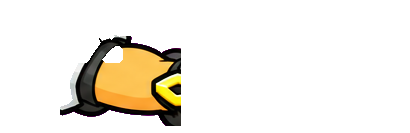
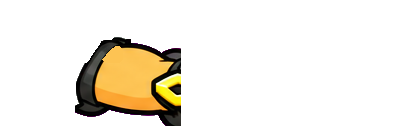
11 네온 알론소 내려찍기 v5.3 (DHL 21:59): 같은 길이 팔 — 엔진 opt-in armIK(길이 고정 두 관절 IK), 손잡이를 몸 쪽으로, 윗팔 위 끝 정리
Claude-Session: https://claude.ai/code/session_011WxNHak8EsK79yqEoeePC7

Changed region(s): [[0.1463, 0.5414, 0.2049, 0.8722], [0.2341, 0.3308, 0.322, 0.4812], [0.2341, 0.2707, 0.322, 0.3008]]

diff --git a/assets/rig/alonso-neon/rig.def.js b/assets/rig/alonso-neon/rig.def.js
@@ -1,3 +1,3 @@
 // 자동 생성: rig.json을 JS로 감싼 것. 원본은 같은 폴더의 rig.json (source/build_neon.py)
 window.MR_RIG_DEFS=window.MR_RIG_DEFS||{};
-window.MR_RIG_DEFS['alonso-neon']={"name": "alonso-neon", "version": "48fab097", "units": "rig px (원화 512 ×2)", "refOrigin": [416.0, 972.0], "refScale": 1.0, "refLift": 0, "parts": {"head": {"src": "parts/head.png", "pivot": [146.0, 249.0], "scale": 2.0}, "torso": {"src": "parts/torso.png", "pivot": [66.0, 102.0], "scale": 2.0}, "torsoS": {"src": "parts/torsoS.png", "pivot": [66.0, 107.0], "scale": 2.0}, "hips": {"src": "parts/hips.png", "pivot": [34.0, 1.0], "scale": 2.0}, "pauldron": {"src": "parts/pauldron.png", "pivot": [45.0, 44.0], "scale": 2.0}, "pauldronF": {"src": "parts/pauldronF.png", "pivot": [26.0, 33.0], "scale": 2.0}, "armU": {"src": "parts/armU.png", "pivot": [7.0, 4.0], "scale": 2.0, "elbow": [23.0, 30.0]}, "armL": {"src": "parts/armL.png", "pivot": [13.0, 17.0], "scale": 2.0, "elbow": [13.0, 17.0], "grip": [99.7, 47.5], "wrist": [99.7, 47.5], "shaftDir": [0.6051086267486272, -0.7961429204824914]}, "foreF": {"src": "parts/foreF.png", "pivot": [3.0, 28.0], "scale": 2.0, "elbow": [3.0, 28.0], "grip": [39.8, 28.0], "wrist": [39.8, 28.0], "shaftDir": [0.6051086267486272, -0.7961429204824914]}, "armF": {"src": "parts/armF.png", "pivot": [36, 25], "scale": 0.7063, "elbow": [38, 145]}, "weapon": {"src": "parts/weapon.png", "pivot": [100, 396.4641362222595], "scale": 2.0, "tip": [100, 16], "tips": [[92, 10], [108, 10]], "guard": [100, 370], "pommel": [100, 463]}, "face_effort": {"src": "parts/face_effort.png", "pivot": [146.0, 249.0], "scale": 2.0}, "face_shout": {"src": "parts/face_shout.png", "pivot": [146.0, 249.0], "scale": 2.0}, "face_focus": {"src": "parts/face_focus.png", "pivot": [146.0, 249.0], "scale": 2.0}, "face_happy": {"src": "parts/face_happy.png", "pivot": [146.0, 249.0], "scale": 2.0}, "face_surprised": {"src": "parts/face_surprised.png", "pivot": [146.0, 249.0], "scale": 2.0}, "face_grimace": {"src": "parts/face_grimace.png", "pivot": [146.0, 249.0], "scale": 2.0}, "face_closed": {"src": "parts/face_closed.png", "pivot": [146.0, 249.0], "scale": 2.0}, "face_half": {"src": "parts/face_half.png", "pivot": [146.0, 249.0], "scale": 2.0}, "thighN": {"src": "parts/thighN.png", "pivot": [0, 0], "scale": 1.0}, "thighF": {"src": "parts/thighF.png", "pivot": [0, 0], "scale": 1.0}, "shinN": {"src": "parts/shinN.png", "pivot": [0, 0], "scale": 1.0}, "shinF": {"src": "parts/shinF.png", "pivot": [0, 0], "scale": 1.0}, "bootN": {"src": "parts/bootN.png", "pivot": [52.0, 2.0], "scale": 2.0}, "bootF": {"src": "parts/bootF.png", "pivot": [20.0, 9.0], "scale": 2.0}, "rthighN": {"src": "parts/rthighN.png", "pivot": [0, 0], "scale": 1.0}, "rthighF": {"src": "parts/rthighF.png", "pivot": [0, 0], "scale": 1.0}, "rshinN": {"src": "parts/rshinN.png", "pivot": [0, 0], "scale": 1.0}, "rshinF": {"src": "parts/rshinF.png", "pivot": [0, 0], "scale": 1.0}, "rkneeN": {"src": "parts/rkneeN.png", "pivot": [49.5, 50.5], "scale": 0.8}, "rkneeF": {"src": "parts/rkneeF.png", "pivot": [49.5, 50.5], "scale": 0.8}, "rboot": {"src": "parts/rboot.png", "pivot": [46.0, 30.0], "scale": 1.12}, "fST2": {"src": "parts/fST2.png", "pivot": [106.4, 114.2], "elbow": [106.4, 114.2], "grip": [342.2, 216.7], "wrist": [342.2, 216.7], "shaftDir": [1.0, 0.0], "scale": 0.575}, "armFst": {"src": "parts/armFst.png", "pivot": [36, 25], "scale": 0.812245, "elbow": [38, 145]}, "weaponA": {"src": "parts/weaponA.png", "pivot": [100, 396.4641362222595], "scale": 2.0, "tip": [100, 16], "tips": [[92, 10], [108, 10]], "guard": [100, 370], "pommel": [100, 463]}, "torsoOH": {"src": "parts/torsoOH.png", "pivot": [165.24, 215.85], "scale": 1.07697}, "gN_OH": {"src": "parts/gN_OH.png", "pivot": [90, 272], "elbow": [90, 272], "grip": [155, 50], "wrist": [155, 50], "shaftDir": [-0.60316, 0.79762], "scale": 0.85627}, "gF_OH": {"src": "parts/gF_OH.png", "pivot": [150, 240], "elbow": [150, 240], "grip": [110, 55], "wrist": [110, 55], "shaftDir": [-0.90107, 0.43367], "scale": 0.85627}, "uN_OH": {"src": "parts/uN_OH.png", "pivot": [110.0, 229.0], "elbow": [33.0, 29.0], "scale": 0.86157}, "farArmOH": {"src": "parts/farArmOH.png", "pivot": [43, 318], "scale": 0.85627}, "gN_ST": {"src": "parts/gN_ST.png", "pivot": [168, 82], "elbow": [168, 82], "grip": [340, 78], "wrist": [340, 78], "shaftDir": [1, 0], "scale": 0.9}, "gF_ST": {"src": "parts/gF_ST.png", "pivot": [67, 100], "elbow": [67, 100], "grip": [67, 50], "wrist": [67, 50], "shaftDir": [1, 0], "scale": 0.9}, "uN_ST": {"src": "parts/uN_ST.png", "pivot": [70, 80], "elbow": [168, 82], "scale": 0.9}}, "bones": [{"name": "root", "parent": null, "pos": [0, 0]}, {"name": "hip", "parent": "root", "pos": [-32.0, -176.0]}, {"name": "hips", "parent": "hip", "pos": [0.0, 0.0], "part": "hips"}, {"name": "torso", "parent": "hip", "pos": [0.0, 0.0], "part": "torso"}, {"name": "torsoS", "parent": "torso", "pos": [0, 0], "part": "torsoS"}, {"name": "head", "parent": "torso", "pos": [26.0, -172.0], "part": "head"}, {"name": "armF", "parent": "torso", "pos": [110.0, -124.0], "rot": 0.3533, "part": "armF"}, {"name": "foreF", "parent": "armF", "pos": [1.4, 84.7], "rot": -0.3533, "part": "foreF"}, {"name": "fistF", "parent": "foreF", "pos": [73.7, -0.1]}, {"name": "weapon", "parent": "fistF", "pos": [0, 0], "rot": 0.6499, "part": "weapon"}, {"name": "armU", "parent": "torso", "pos": [-84.0, -112.0], "part": "armU"}, {"name": "armL", "parent": "armU", "pos": [32.0, 52.0], "part": "armL"}, {"name": "fistN", "parent": "armL", "pos": [173.3, 61.1]}, {"name": "pauldron", "parent": "torso", "pos": [-84.0, -112.0], "part": "pauldron"}, {"name": "pauldronF", "parent": "torso", "pos": [110.0, -124.0], "part": "pauldronF"}, {"name": "cape", "parent": "torso", "pos": [0, -200]}, {"name": "scarf", "parent": "torso", "pos": [0, -200]}, {"name": "pouch", "parent": "torso", "pos": [0, -200]}, {"name": "skirt", "parent": "torso", "pos": [0, -200]}, {"name": "skirtB", "parent": "torso", "pos": [0, -200]}, {"name": "weaponA", "parent": "weapon", "pos": [0, 0], "part": "weaponA"}, {"name": "torsoOH", "parent": "torso", "pos": [0, 0], "rot": -0.03748, "part": "torsoOH"}, {"name": "farArmOH", "parent": "torso", "pos": [115.15, -170.13], "rot": -0.29928, "part": "farArmOH"}], "legs": {"hip": [0, 10], "thigh": 108.0, "shin": 78.0, "thighImg": {"part": "rthighF", "a": [34.2, 21.6], "b": [39.7, 133.9], "w": 1.197}, "shinImg": {"part": "rshinF", "a": [28.5, 22.3], "b": [46.0, 131.1], "w": 1.625}, "thighFirst": false, "boot": {"part": "rboot", "sole": [[-46.0, 49.0], [84.0, 49.0], [-34.0, 56.0], [84.0, 56.0], [26.0, 63.0], [52.0, 63.0]], "ankleRange": [-0.45, 0.75]}, "near": {"x": -96.0, "hipX": -40.0, "runX": -10, "shade": 0, "kneeOut": 1, "thigh": 65.1, "shin": 57.3, "thighImg": {"part": "rthighN", "a": [47.1, 21.8], "b": [48.1, 129.7], "w": 1.149}, "shinImg": {"part": "rshinN", "a": [34.2, 21.6], "b": [24.7, 127.2], "w": 1.563}, "kneeImg": {"part": "rkneeN", "mix": 0.5}, "stand": {"fade": [0.05, 0.1], "boot": {"part": "bootN", "sole": [[-46.0, 28.0], [3.0, 28.0], [-35.0, 32.0], [-16.0, 32.0]]}, "thighImg": {"part": "thighN", "a": [63.0, 8.0], "b": [41.0, 32.0], "w": 1.0}, "shinImg": {"part": "shinN", "a": [35.0, -12.0], "b": [29.0, 16.0], "w": 1.0}, "kneeImg": null}}, "far": {"x": 158.0, "hipX": 44.0, "runX": 10, "shade": 0, "thigh": 118.2, "shin": 72.2, "thighImg": {"part": "rthighF", "a": [34.2, 21.6], "b": [39.7, 133.9], "w": 1.197}, "shinImg": {"part": "rshinF", "a": [28.5, 22.3], "b": [46.0, 131.1], "w": 1.625}, "kneeImg": {"part": "rkneeF", "mix": 0.5}, "stand": {"fade": [0.05, 0.1], "boot": {"part": "bootF", "sole": [[-1.0, 18.0], [55.0, 18.0], [26.0, 22.0], [41.0, 22.0]]}, "thighImg": {"part": "thighF", "a": [27.0, 7.0], "b": [81.0, 31.0], "w": 1.0}, "shinImg": {"part": "shinF", "a": [11.0, -11.0], "b": [14.0, 25.0], "w": 1.0}, "kneeImg": null}}}, "draw": ["legFar", "legNear", "hips", "armF", "torsoS", "torso", "pauldronF", "head", "weapon", "weaponA", "foreF", "armU", "pauldron", "armL"], "drawA": ["legFar", "legNear", "hips", "armF", "torsoS", "torso", "pauldronF", "head", "weapon", "weaponA", "foreF", "armU", "pauldron", "armL"], "hidden": ["torsoS", "weaponA"], "faces": {"effort": "face_effort", "shout": "face_shout", "focus": "face_focus", "happy": "face_happy", "surprised": "face_surprised", "grimace": "face_grimace"}, "blinkFaces": {"half": "face_half", "closed": "face_closed"}, "metrics": {"bodyHeight": 774, "note": "rig units; 머리카락 가운데(y95)~발바닥(482) ×2, 무기 제외"}, "armPhase": 0.5, "gait": {"heelKick": 0.5, "kneeLift": 0.35, "strideBase": 80, "strideK": 0.2, "swingReach": -0.05, "swingAng": 0.15, "landAng": 0, "hipBase": -44, "bob": 10, "lean": 0.1, "headRun": 0.04}, "carrySwing": 0.25, "wristRange": 0.2, "swordGrip": {"tipDepth": 6, "near": {"upper": "armF", "carry": "foreF"}, "far": {"upper": "armU", "pieces": ["armL"], "sPref": -56.8}, "guard": {"gx": 155.7, "gy": -44.1, "sa": -0.9209, "sN": 0, "sF": -56.8, "nPiece": "foreF", "fPiece": "armL", "nUpper": "armF", "fUpper": "armU", "order": "drawA", "frame": "torso"}, "shoulderN": [36, 6], "shoulderF": [-15, -5], "stretchMax": 1.6, "shoulderPush": 0, "pauldronFollow": 1}, "ui": {"attack": "smash", "touch": "hop"}, "gameRef": {"refOrigin": [208.0, 486.0], "refScale": 2.0, "refLift": 0, "note": "게임 그림 char_0011.png(512) = 원화"}, "note": "11 네온 알론소 (2026-10-18, v1 대기·달리기). 두 손으로 칼을 몸 앞에 쥠(swordGrip.guard), 손·팔뚝·머리·어깨갑은 원화를 그대로 오려 씀.", "drawOH": ["legFar", "legNear", "hips", "torsoS", "torso", "pauldronF", "head", "weapon", "weaponA", "armF", "armU", "foreF", "armL", "pauldron"], "drawSW": ["legFar", "legNear", "hips", "armF", "foreF", "armU", "armL", "torsoS", "torso", "pauldronF", "head", "weapon", "weaponA", "pauldron"], "drawST": ["legFar", "legNear", "hips", "torsoS", "torso", "armF", "pauldronF", "head", "weapon", "weaponA", "foreF", "armU", "pauldron", "armL"], "actions": {"smash": {"dur": 0.9, "hitAt": 0.43, "hitStop": 0.07, "cancelAt": 0.64, "legRun": [[0, 0], [0.1, 0, "lin"], [0.1001, 1], [0.64, 1, "io"], [0.84, 0.12, "lin"], [0.8401, 0]], "w": [[0, 1]], "reach": [[0, 1]], "sN": [[0, 0]], "sF": [[0, -56.8]], "shN": [[0, 0]], "shF": [[0, 0], [0.08, 0, "io"], [0.15, 1], [0.66, 1, "io"], [0.76, 0]], "hipX": [[0, 0, "io"], [0.067, -4, "io"], [0.3, -6, "io"], [0.38, 45, "io"], [0.43, 60, "o"], [0.62, 60, "io"], [0.84, 0]], "hipY": [[0, 0, "io"], [0.067, 12, "io"], [0.2, -4, "s"], [0.33, -2, "io"], [0.38, -12, "io"], [0.43, 28, "o"], [0.62, 26, "io"], [0.84, 0]], "lean": [[0, 0, "io"], [0.067, 0.03, "io"], [0.2, -0.06, "s"], [0.33, -0.08, "io"], [0.38, 0.24, "io"], [0.43, 0.26, "o"], [0.62, 0.24, "io"], [0.84, 0]], "head": [[0, 0, "io"], [0.1, 0, "lin"], [0.1001, -0.021, "io"], [0.33, -0.028, "io"], [0.36, -0.028, "lin"], [0.43, -0.12, "o"], [0.62, -0.1, "io"], [0.84, 0]], "farDx": [[0, 0, "io"], [0.3, 0, "io"], [0.37, 55, "io"], [0.64, 55, "io"], [0.84, 0]], "farLift": [[0, 0], [0.3, 0, "io"], [0.335, 20, "io"], [0.37, 0], [0.66, 0, "io"], [0.74, 14, "io"], [0.84, 0]], "nearDx": [[0, 0, "io"], [0.3, 0, "io"], [0.38, -60, "io"], [0.64, -60, "io"], [0.84, 0]], "shake": [[0, 0], [0.43, 0, "lin"], [0.44, 1], [0.53, 0]], "face": [[0, "effort"], [0.36, "shout"], [0.5, "focus"], [0.8, null]], "nPiece": [[0, "foreF"], [0.1001, "gF_OH"], [0.3601, "fST2"], [0.72, "foreF"]], "fPiece": [[0, "armL"], [0.1001, "gN_OH"], [0.3601, "gN_ST"], [0.72, "armL"]], "nUpper": [[0, "armF"], [0.3601, "armFst"], [0.72, "armF"]], "fUpper": [[0, "armU"], [0.1001, "uN_OH"], [0.3601, "uN_ST"], [0.72, "armU"]], "order": [[0, "drawA"], [0.1001, "drawOH2"], [0.3601, "drawST"], [0.72, "drawA"]], "fade": {"torso": [[0, 1], [0.1, 1, "lin"], [0.1001, 0], [0.72, 0, "lin"], [0.721, 1]], "torsoS": [[0, 1]], "pauldronF": [[0, 1], [0.1, 1, "lin"], [0.1001, 0], [0.72, 0, "lin"], [0.721, 1]], "pauldron": [[0, 1], [0.1, 1, "lin"], [0.1001, 0], [0.36, 0, "lin"], [0.3601, 1]], "armF": [[0, 1]], "weapon": [[0, 1], [0.1, 1, "lin"], [0.1001, 0], [0.72, 0, "lin"], [0.721, 1]], "weaponA": [[0, 0], [0.1, 0, "lin"], [0.1001, 1], [0.72, 1, "lin"], [0.721, 0]]}, "kneeOut": 1, "ankleRange": [-0.45, 1.1], "fTw": [[0, 0], [0.1, 0, "lin"], [0.1001, 0], [0.36, 0, "lin"], [0.3601, 0.2, "o"], [0.41, 0, "io"], [0.62, 0, "io"], [0.72, 0.8, "lin"], [0.7201, -0.81, "io"], [0.8, 0]], "nTw": [[0, 0], [0.1, 0, "lin"], [0.1001, 0], [0.36, 0, "lin"], [0.3601, 0.2, "o"], [0.41, 0, "io"], [0.62, 0, "io"], [0.72, 0.42, "lin"], [0.7201, -0.42, "io"], [0.8, 0]], "kneeOutF": [[0, 0], [0.38, 0, "io"], [0.43, 0.35], [0.62, 0.35, "io"], [0.8, 0]], "shFx": [[0, 0], [0.36, 0, "lin"], [0.3601, -38], [0.72, -38, "lin"], [0.7201, 0]], "shFy": [[0, 0], [0.36, 0, "lin"], [0.3601, -24], [0.72, -24, "lin"], [0.7201, 0]], "kind": "sword", "rigid": true, "frame": "torso", "orderAlways": true, "gx": [[0, 155.7, "io"], [0.067, 150, "i"], [0.1, 235, "lin"], [0.1002, -170.74, "o"], [0.16, -174.59, "io"], [0.27, -174.59, "io"], [0.33, -171.72, "io"], [0.36, -171.72, "lin"], [0.3601, 285, "o"], [0.38, 282, "o"], [0.43, 275, "o"], [0.62, 275, "io"], [0.82, 155.7, "io"]], "gy": [[0, -44.1, "io"], [0.067, -24, "i"], [0.1, -170, "lin"], [0.1002, -533.68, "o"], [0.16, -536.09, "io"], [0.27, -536.09, "io"], [0.33, -534.26, "io"], [0.36, -534.26, "lin"], [0.3601, -160, "o"], [0.38, -75, "o"], [0.43, -45, "o"], [0.62, -45, "io"], [0.82, -44.1, "io"]], "sa": [[0, -0.9209, "io"], [0.067, -0.75, "i"], [0.1, -1.2, "lin"], [0.1002, -4.1928, "o"], [0.16, -4.1128, "io"], [0.27, -4.1128, "io"], [0.33, -4.1728, "io"], [0.36, -4.1728, "lin"], [0.3601, -0.2, "o"], [0.38, 0.25, "o"], [0.43, 0.42, "o"], [0.62, 0.42, "io"], [0.82, -0.9209, "io"]], "shNx": [[0, 0], [0.1, 0, "lin"], [0.1001, -39.24], [0.36, -39.24, "lin"], [0.3601, 0]], "shNy": [[0, 0], [0.1, 0, "lin"], [0.1001, -92.3], [0.36, -92.3, "lin"], [0.3601, 0]]}}, "cutHold": 0.55, "overlays": {"farFistOv": {"bone": "foreF", "rect": [40, 0, 150, 112]}}, "drawOH2": ["legFar", "legNear", "hips", "foreF", "farArmOH", "torsoOH", "head", "weapon", "weaponA", "farFistOv", "armU", "armL"]};
+window.MR_RIG_DEFS['alonso-neon']={"name": "alonso-neon", "version": "3fa3e05e", "units": "rig px (원화 512 ×2)", "refOrigin": [416.0, 972.0], "refScale": 1.0, "refLift": 0, "parts": {"head": {"src": "parts/head.png", "pivot": [146.0, 249.0], "scale": 2.0}, "torso": {"src": "parts/torso.png", "pivot": [66.0, 102.0], "scale": 2.0}, "torsoS": {"src": "parts/torsoS.png", "pivot": [66.0, 107.0], "scale": 2.0}, "hips": {"src": "parts/hips.png", "pivot": [34.0, 1.0], "scale": 2.0}, "pauldron": {"src": "parts/pauldron.png", "pivot": [45.0, 44.0], "scale": 2.0}, "pauldronF": {"src": "parts/pauldronF.png", "pivot": [26.0, 33.0], "scale": 2.0}, "armU": {"src": "parts/armU.png", "pivot": [7.0, 4.0], "scale": 2.0, "elbow": [23.0, 30.0]}, "armL": {"src": "parts/armL.png", "pivot": [13.0, 17.0], "scale": 2.0, "elbow": [13.0, 17.0], "grip": [99.7, 47.5], "wrist": [99.7, 47.5], "shaftDir": [0.6051086267486272, -0.7961429204824914]}, "foreF": {"src": "parts/foreF.png", "pivot": [3.0, 28.0], "scale": 2.0, "elbow": [3.0, 28.0], "grip": [39.8, 28.0], "wrist": [39.8, 28.0], "shaftDir": [0.6051086267486272, -0.7961429204824914]}, "armF": {"src": "parts/armF.png", "pivot": [36, 25], "scale": 0.7063, "elbow": [38, 145]}, "weapon": {"src": "parts/weapon.png", "pivot": [100, 396.4641362222595], "scale": 2.0, "tip": [100, 16], "tips": [[92, 10], [108, 10]], "guard": [100, 370], "pommel": [100, 463]}, "face_effort": {"src": "parts/face_effort.png", "pivot": [146.0, 249.0], "scale": 2.0}, "face_shout": {"src": "parts/face_shout.png", "pivot": [146.0, 249.0], "scale": 2.0}, "face_focus": {"src": "parts/face_focus.png", "pivot": [146.0, 249.0], "scale": 2.0}, "face_happy": {"src": "parts/face_happy.png", "pivot": [146.0, 249.0], "scale": 2.0}, "face_surprised": {"src": "parts/face_surprised.png", "pivot": [146.0, 249.0], "scale": 2.0}, "face_grimace": {"src": "parts/face_grimace.png", "pivot": [146.0, 249.0], "scale": 2.0}, "face_closed": {"src": "parts/face_closed.png", "pivot": [146.0, 249.0], "scale": 2.0}, "face_half": {"src": "parts/face_half.png", "pivot": [146.0, 249.0], "scale": 2.0}, "thighN": {"src": "parts/thighN.png", "pivot": [0, 0], "scale": 1.0}, "thighF": {"src": "parts/thighF.png", "pivot": [0, 0], "scale": 1.0}, "shinN": {"src": "parts/shinN.png", "pivot": [0, 0], "scale": 1.0}, "shinF": {"src": "parts/shinF.png", "pivot": [0, 0], "scale": 1.0}, "bootN": {"src": "parts/bootN.png", "pivot": [52.0, 2.0], "scale": 2.0}, "bootF": {"src": "parts/bootF.png", "pivot": [20.0, 9.0], "scale": 2.0}, "rthighN": {"src": "parts/rthighN.png", "pivot": [0, 0], "scale": 1.0}, "rthighF": {"src": "parts/rthighF.png", "pivot": [0, 0], "scale": 1.0}, "rshinN": {"src": "parts/rshinN.png", "pivot": [0, 0], "scale": 1.0}, "rshinF": {"src": "parts/rshinF.png", "pivot": [0, 0], "scale": 1.0}, "rkneeN": {"src": "parts/rkneeN.png", "pivot": [49.5, 50.5], "scale": 0.8}, "rkneeF": {"src": "parts/rkneeF.png", "pivot": [49.5, 50.5], "scale": 0.8}, "rboot": {"src": "parts/rboot.png", "pivot": [46.0, 30.0], "scale": 1.12}, "fST2": {"src": "parts/fST2.png", "pivot": [106.4, 114.2], "elbow": [106.4, 114.2], "grip": [342.2, 216.7], "wrist": [342.2, 216.7], "shaftDir": [1.0, 0.0], "scale": 0.475}, "armFst": {"src": "parts/armFst.png", "pivot": [36, 25], "scale": 0.670985, "elbow": [38, 145]}, "weaponA": {"src": "parts/weaponA.png", "pivot": [100, 396.4641362222595], "scale": 2.0, "tip": [100, 16], "tips": [[92, 10], [108, 10]], "guard": [100, 370], "pommel": [100, 463]}, "torsoOH": {"src": "parts/torsoOH.png", "pivot": [165.24, 215.85], "scale": 1.07697}, "gN_OH": {"src": "parts/gN_OH.png", "pivot": [90, 272], "elbow": [90, 272], "grip": [155, 50], "wrist": [155, 50], "shaftDir": [-0.60316, 0.79762], "scale": 0.85627}, "gF_OH": {"src": "parts/gF_OH.png", "pivot": [150, 240], "elbow": [150, 240], "grip": [110, 55], "wrist": [110, 55], "shaftDir": [-0.90107, 0.43367], "scale": 0.85627}, "uN_OH": {"src": "parts/uN_OH.png", "pivot": [110.0, 229.0], "elbow": [33.0, 29.0], "scale": 0.86157}, "farArmOH": {"src": "parts/farArmOH.png", "pivot": [43, 318], "scale": 0.85627}, "gN_ST": {"src": "parts/gN_ST.png", "pivot": [168, 82], "elbow": [168, 82], "grip": [340, 78], "wrist": [340, 78], "shaftDir": [1, 0], "scale": 0.9}, "gF_ST": {"src": "parts/gF_ST.png", "pivot": [67, 100], "elbow": [67, 100], "grip": [67, 50], "wrist": [67, 50], "shaftDir": [1, 0], "scale": 0.9}, "uN_ST": {"src": "parts/uN_ST.png", "pivot": [70, 80], "elbow": [168, 82], "scale": 0.9}}, "bones": [{"name": "root", "parent": null, "pos": [0, 0]}, {"name": "hip", "parent": "root", "pos": [-32.0, -176.0]}, {"name": "hips", "parent": "hip", "pos": [0.0, 0.0], "part": "hips"}, {"name": "torso", "parent": "hip", "pos": [0.0, 0.0], "part": "torso"}, {"name": "torsoS", "parent": "torso", "pos": [0, 0], "part": "torsoS"}, {"name": "head", "parent": "torso", "pos": [26.0, -172.0], "part": "head"}, {"name": "armF", "parent": "torso", "pos": [110.0, -124.0], "rot": 0.3533, "part": "armF"}, {"name": "foreF", "parent": "armF", "pos": [1.4, 84.7], "rot": -0.3533, "part": "foreF"}, {"name": "fistF", "parent": "foreF", "pos": [73.7, -0.1]}, {"name": "weapon", "parent": "fistF", "pos": [0, 0], "rot": 0.6499, "part": "weapon"}, {"name": "armU", "parent": "torso", "pos": [-84.0, -112.0], "part": "armU"}, {"name": "armL", "parent": "armU", "pos": [32.0, 52.0], "part": "armL"}, {"name": "fistN", "parent": "armL", "pos": [173.3, 61.1]}, {"name": "pauldron", "parent": "torso", "pos": [-84.0, -112.0], "part": "pauldron"}, {"name": "pauldronF", "parent": "torso", "pos": [110.0, -124.0], "part": "pauldronF"}, {"name": "cape", "parent": "torso", "pos": [0, -200]}, {"name": "scarf", "parent": "torso", "pos": [0, -200]}, {"name": "pouch", "parent": "torso", "pos": [0, -200]}, {"name": "skirt", "parent": "torso", "pos": [0, -200]}, {"name": "skirtB", "parent": "torso", "pos": [0, -200]}, {"name": "weaponA", "parent": "weapon", "pos": [0, 0], "part": "weaponA"}, {"name": "torsoOH", "parent": "torso", "pos": [0, 0], "rot": -0.03748, "part": "torsoOH"}, {"name": "farArmOH", "parent": "torso", "pos": [115.15, -170.13], "rot": -0.29928, "part": "farArmOH"}], "legs": {"hip": [0, 10], "thigh": 108.0, "shin": 78.0, "thighImg": {"part": "rthighF", "a": [34.2, 21.6], "b": [39.7, 133.9], "w": 1.197}, "shinImg": {"part": "rshinF", "a": [28.5, 22.3], "b": [46.0, 131.1], "w": 1.625}, "thighFirst": false, "boot": {"part": "rboot", "sole": [[-46.0, 49.0], [84.0, 49.0], [-34.0, 56.0], [84.0, 56.0], [26.0, 63.0], [52.0, 63.0]], "ankleRange": [-0.45, 0.75]}, "near": {"x": -96.0, "hipX": -40.0, "runX": -10, "shade": 0, "kneeOut": 1, "thigh": 65.1, "shin": 57.3, "thighImg": {"part": "rthighN", "a": [47.1, 21.8], "b": [48.1, 129.7], "w": 1.149}, "shinImg": {"part": "rshinN", "a": [34.2, 21.6], "b": [24.7, 127.2], "w": 1.563}, "kneeImg": {"part": "rkneeN", "mix": 0.5}, "stand": {"fade": [0.05, 0.1], "boot": {"part": "bootN", "sole": [[-46.0, 28.0], [3.0, 28.0], [-35.0, 32.0], [-16.0, 32.0]]}, "thighImg": {"part": "thighN", "a": [63.0, 8.0], "b": [41.0, 32.0], "w": 1.0}, "shinImg": {"part": "shinN", "a": [35.0, -12.0], "b": [29.0, 16.0], "w": 1.0}, "kneeImg": null}}, "far": {"x": 158.0, "hipX": 44.0, "runX": 10, "shade": 0, "thigh": 118.2, "shin": 72.2, "thighImg": {"part": "rthighF", "a": [34.2, 21.6], "b": [39.7, 133.9], "w": 1.197}, "shinImg": {"part": "rshinF", "a": [28.5, 22.3], "b": [46.0, 131.1], "w": 1.625}, "kneeImg": {"part": "rkneeF", "mix": 0.5}, "stand": {"fade": [0.05, 0.1], "boot": {"part": "bootF", "sole": [[-1.0, 18.0], [55.0, 18.0], [26.0, 22.0], [41.0, 22.0]]}, "thighImg": {"part": "thighF", "a": [27.0, 7.0], "b": [81.0, 31.0], "w": 1.0}, "shinImg": {"part": "shinF", "a": [11.0, -11.0], "b": [14.0, 25.0], "w": 1.0}, "kneeImg": null}}}, "draw": ["legFar", "legNear", "hips", "armF", "torsoS", "torso", "pauldronF", "head", "weapon", "weaponA", "foreF", "armU", "pauldron", "armL"], "drawA": ["legFar", "legNear", "hips", "armF", "torsoS", "torso", "pauldronF", "head", "weapon", "weaponA", "foreF", "armU", "pauldron", "armL"], "hidden": ["torsoS", "weaponA"], "faces": {"effort": "face_effort", "shout": "face_shout", "focus": "face_focus", "happy": "face_happy", "surprised": "face_surprised", "grimace": "face_grimace"}, "blinkFaces": {"half": "face_half", "closed": "face_closed"}, "metrics": {"bodyHeight": 774, "note": "rig units; 머리카락 가운데(y95)~발바닥(482) ×2, 무기 제외"}, "armPhase": 0.5, "gait": {"heelKick": 0.5, "kneeLift": 0.35, "strideBase": 80, "strideK": 0.2, "swingReach": -0.05, "swingAng": 0.15, "landAng": 0, "hipBase": -44, "bob": 10, "lean": 0.1, "headRun": 0.04}, "carrySwing": 0.25, "wristRange": 0.2, "swordGrip": {"tipDepth": 6, "near": {"upper": "armF", "carry": "foreF"}, "far": {"upper": "armU", "pieces": ["armL"], "sPref": -56.8}, "guard": {"gx": 155.7, "gy": -44.1, "sa": -0.9209, "sN": 0, "sF": -56.8, "nPiece": "foreF", "fPiece": "armL", "nUpper": "armF", "fUpper": "armU", "order": "drawA", "frame": "torso"}, "shoulderN": [36, 6], "shoulderF": [-15, -5], "stretchMax": 1.6, "shoulderPush": 0, "pauldronFollow": 1}, "ui": {"attack": "smash", "touch": "hop"}, "gameRef": {"refOrigin": [208.0, 486.0], "refScale": 2.0, "refLift": 0, "note": "게임 그림 char_0011.png(512) = 원화"}, "note": "11 네온 알론소 (2026-10-18, v1 대기·달리기). 두 손으로 칼을 몸 앞에 쥠(swordGrip.guard), 손·팔뚝·머리·어깨갑은 원화를 그대로 오려 씀.", "drawOH": ["legFar", "legNear", "hips", "torsoS", "torso", "pauldronF", "head", "weapon", "weaponA", "armF", "armU", "foreF", "armL", "pauldron"], "drawSW": ["legFar", "legNear", "hips", "armF", "foreF", "armU", "armL", "torsoS", "torso", "pauldronF", "head", "weapon", "weaponA", "pauldron"], "drawST": ["legFar", "legNear", "hips", "torsoS", "torso", "armF", "pauldronF", "head", "weapon", "weaponA", "foreF", "armU", "pauldron", "armL"], "actions": {"smash": {"dur": 0.9, "hitAt": 0.43, "hitStop": 0.07, "cancelAt": 0.64, "legRun": [[0, 0], [0.1, 0, "lin"], [0.1001, 1], [0.64, 1, "io"], [0.84, 0.12, "lin"], [0.8401, 0]], "w": [[0, 1]], "reach": [[0, 1]], "sN": [[0, 0]], "sF": [[0, -56.8]], "shN": [[0, 0]], "shF": [[0, 0], [0.08, 0, "io"], [0.15, 1], [0.66, 1, "io"], [0.76, 0]], "hipX": [[0, 0, "io"], [0.067, -4, "io"], [0.3, -6, "io"], [0.38, 45, "io"], [0.43, 60, "o"], [0.62, 60, "io"], [0.84, 0]], "hipY": [[0, 0, "io"], [0.067, 12, "io"], [0.2, -4, "s"], [0.33, -2, "io"], [0.38, -12, "io"], [0.43, 28, "o"], [0.62, 26, "io"], [0.84, 0]], "lean": [[0, 0, "io"], [0.067, 0.03, "io"], [0.2, -0.06, "s"], [0.33, -0.08, "io"], [0.38, 0.24, "io"], [0.43, 0.26, "o"], [0.62, 0.24, "io"], [0.84, 0]], "head": [[0, 0, "io"], [0.1, 0, "lin"], [0.1001, -0.021, "io"], [0.33, -0.028, "io"], [0.36, -0.028, "lin"], [0.43, -0.12, "o"], [0.62, -0.1, "io"], [0.84, 0]], "farDx": [[0, 0, "io"], [0.3, 0, "io"], [0.37, 55, "io"], [0.64, 55, "io"], [0.84, 0]], "farLift": [[0, 0], [0.3, 0, "io"], [0.335, 20, "io"], [0.37, 0], [0.66, 0, "io"], [0.74, 14, "io"], [0.84, 0]], "nearDx": [[0, 0, "io"], [0.3, 0, "io"], [0.38, -60, "io"], [0.64, -60, "io"], [0.84, 0]], "shake": [[0, 0], [0.43, 0, "lin"], [0.44, 1], [0.53, 0]], "face": [[0, "effort"], [0.36, "shout"], [0.5, "focus"], [0.8, null]], "nPiece": [[0, "foreF"], [0.1001, "gF_OH"], [0.3601, "fST2"], [0.72, "foreF"]], "fPiece": [[0, "armL"], [0.1001, "gN_OH"], [0.3601, "gN_ST"], [0.72, "armL"]], "nUpper": [[0, "armF"], [0.3601, "armFst"], [0.72, "armF"]], "fUpper": [[0, "armU"], [0.1001, "uN_OH"], [0.3601, "uN_ST"], [0.72, "armU"]], "order": [[0, "drawA"], [0.1001, "drawOH2"], [0.3601, "drawST"], [0.72, "drawA"]], "fade": {"torso": [[0, 1], [0.1, 1, "lin"], [0.1001, 0], [0.72, 0, "lin"], [0.721, 1]], "torsoS": [[0, 1]], "pauldronF": [[0, 1], [0.1, 1, "lin"], [0.1001, 0], [0.72, 0, "lin"], [0.721, 1]], "pauldron": [[0, 1], [0.1, 1, "lin"], [0.1001, 0], [0.36, 0, "lin"], [0.3601, 1]], "armF": [[0, 1]], "weapon": [[0, 1], [0.1, 1, "lin"], [0.1001, 0], [0.72, 0, "lin"], [0.721, 1]], "weaponA": [[0, 0], [0.1, 0, "lin"], [0.1001, 1], [0.72, 1, "lin"], [0.721, 0]]}, "kneeOut": 1, "ankleRange": [-0.45, 1.1], "fTw": [[0, 0]], "nTw": [[0, 0]], "kneeOutF": [[0, 0], [0.38, 0, "io"], [0.43, 0.35], [0.62, 0.35, "io"], [0.8, 0]], "shFx": [[0, 0], [0.36, 0, "lin"], [0.3601, -60], [0.72, -60, "lin"], [0.7201, 0]], "shFy": [[0, 0], [0.36, 0, "lin"], [0.3601, -34], [0.72, -34, "lin"], [0.7201, 0]], "armIK": [[0, 1], [0.1, 1, "lin"], [0.1001, 0], [0.36, 0, "lin"], [0.3601, 1]], "ikSide": {"N": 1, "F": 1}, "armIKN": [[0, 0], [0.36, 0, "lin"], [0.3601, 1], [0.72, 1, "lin"], [0.7201, 0]], "kind": "sword", "rigid": true, "frame": "torso", "orderAlways": true, "gx": [[0, 155.7, "io"], [0.067, 150, "i"], [0.1, 165, "lin"], [0.1002, -170.74, "o"], [0.16, -174.59, "io"], [0.27, -174.59, "io"], [0.33, -171.72, "io"], [0.36, -171.72, "lin"], [0.3601, 205, "o"], [0.38, 202, "o"], [0.43, 195, "o"], [0.62, 195, "io"], [0.82, 155.7, "io"]], "gy": [[0, -44.1, "io"], [0.067, -24, "i"], [0.1, -225, "lin"], [0.1002, -533.68, "o"], [0.16, -536.09, "io"], [0.27, -536.09, "io"], [0.33, -534.26, "io"], [0.36, -534.26, "lin"], [0.3601, -179, "o"], [0.38, -94, "o"], [0.43, -64, "o"], [0.62, -64, "io"], [0.82, -44.1, "io"]], "sa": [[0, -0.9209, "io"], [0.067, -0.75, "i"], [0.1, -1.2, "lin"], [0.1002, -4.1928, "o"], [0.16, -4.1128, "io"], [0.27, -4.1128, "io"], [0.33, -4.1728, "io"], [0.36, -4.1728, "lin"], [0.3601, -0.2, "o"], [0.38, 0.25, "o"], [0.43, 0.42, "o"], [0.62, 0.42, "io"], [0.82, -0.9209, "io"]], "shNx": [[0, 0], [0.1, 0, "lin"], [0.1001, -39.24], [0.36, -39.24, "lin"], [0.3601, 0]], "shNy": [[0, 0], [0.1, 0, "lin"], [0.1001, -92.3], [0.36, -92.3, "lin"], [0.3601, 0]]}}, "cutHold": 0.55, "overlays": {"farFistOv": {"bone": "foreF", "rect": [40, 0, 150, 112]}}, "drawOH2": ["legFar", "legNear", "hips", "foreF", "farArmOH", "torsoOH", "head", "weapon", "weaponA", "farFistOv", "armU", "armL"]};

diff --git a/assets/rig/rig.js b/assets/rig/rig.js
@@ -877,12 +877,26 @@
       { const tp = step("tPiece", null); rig.swap.torso = tp && tp !== b.torso.part ? tp : null;
         const hd = rig.swap.torso && P[rig.swap.torso].hides; if (hd) for (const h of hd) rig.alpha[h] = 0 }   // 바꾼 상체 그림에 이미 그려진 조각(주머니 등)은 숨김   // 튼 상체(준비 자세) 등 상체 그림 바꾸기 — 구간 고정
       if (D.fade) { this._fadeN = Object.keys(D.fade); for (const n of this._fadeN) rig.alpha[n] = clamp(track(D.fade[n], at), 0, 1) }   // (opt-in, 21 알론소) 조각 투명도 키: 팔을 머리 위로 올린 동안 어깨갑 숨김(원화 시트 머리 위 자세에 어깨갑 없음)
+      // (opt-in 동작 트랙 armIK 0~1, 11 네온 알론소 10-18 DHL '고무줄처럼 늘어나지 말고 같은 길이의 팔이 내려치고 다시 올라가게'):
+      //   주먹(쥔 팔 조각의 손잡이 점)은 칼에 붙은 채, 윗팔 길이(그림 길이)·팔뚝 길이(조각의 손잡이→팔꿈치)를 고정한 두 관절 IK —
+      //   팔꿈치 = 어깨 원(윗팔 길이) ∩ 주먹 원(팔뚝 길이), 쥔 팔 조각은 주먹 둘레로만 돌아 그 팔꿈치를 가리킴(손목 꺾임 = this.wrN·wrF).
+      //   닿지 않으면 팔을 곧게 펴고 남는 만큼만 윗팔이 늘어남(this.stN·stF 로 확인). ikSide {N,F}: +1 = 어깨→주먹 선의 시계 방향 쪽 팔꿈치, 없으면 칼에 붙인 팔꿈치에 가까운 쪽
+      const ikA = D.armIK ? clamp(tr("armIK"), 0, 1) : 0;   // 쪽별로 armIKN·armIKF 트랙이 있으면 그것
+      const ikArm = (bone, pn, s, tw, S, uPn, side) => { const E0 = fore(bone, pn, s, tw), ikW = D["armIK" + side] ? clamp(tr("armIK" + side), 0, 1) : ikA; if (!(ikW > 0)) { this["wr" + side] = 0; return E0 }
+        const pu = P[uPn], GN = [G[0] + U[0] * s, G[1] + U[1] * s], r = Math.hypot(E0[0] - GN[0], E0[1] - GN[1]);
+        const L1 = Math.hypot(pu.elbow[0] - pu.pivot[0], pu.elbow[1] - pu.pivot[1]) * (pu.scale || 1), dx = GN[0] - S[0], dy = GN[1] - S[1], d = Math.hypot(dx, dy) || 1e-6, base = Math.atan2(dy, dx);
+        let E; if (d >= L1 + r) E = [S[0] + dx / d * L1, S[1] + dy / d * L1];
+        else { const dd = Math.max(d, Math.abs(L1 - r) + 1e-3), al = Math.acos(clamp((L1 * L1 + dd * dd - r * r) / (2 * L1 * dd), -1, 1));
+          const e1 = [S[0] + Math.cos(base - al) * L1, S[1] + Math.sin(base - al) * L1], e2 = [S[0] + Math.cos(base + al) * L1, S[1] + Math.sin(base + al) * L1], sd = D.ikSide && D.ikSide[side];
+          E = sd ? (sd > 0 ? e2 : e1) : (Math.hypot(e1[0] - E0[0], e1[1] - E0[1]) <= Math.hypot(e2[0] - E0[0], e2[1] - E0[1]) ? e1 : e2) }
+        const t2 = wrapA(Math.atan2(E[1] - GN[1], E[0] - GN[0]) - Math.atan2(E0[1] - GN[1], E0[0] - GN[0])) * ikW; this["wr" + side] = t2;
+        return fore(bone, pn, s, tw + t2) };
       const nP = step("nPiece", SG.near.carry), nU = step("nUpper", SG.near.upper);
-      const EN = fore("foreF", nP, tr("sN") || 0, tr("nTw")); this.stN = upper("armF", nU, SN, EN);
+      const EN = ikArm("foreF", nP, tr("sN") || 0, tr("nTw"), SN, nU, "N"); this.stN = upper("armF", nU, SN, EN);
       if (b.fistF) b.fistF.wm = null;
       if (reach > .985) {   // 먼 손도 칼에 붙음
         const fP = step("fPiece", SG.far.pieces[0]), fU = step("fUpper", SG.far.upper);
-        const EF = fore("armL", fP, tr("sF") || SG.far.sPref || 0, tr("fTw")); this.stF = upper("armU", fU, SF, EF); b.pauldron.ar = 0;
+        const EF = ikArm("armL", fP, tr("sF") || SG.far.sPref || 0, tr("fTw"), SF, fU, "F"); this.stF = upper("armU", fU, SF, EF); b.pauldron.ar = 0;
       } else if (reach > 0 && D.reachIK) {   // (opt-in, 21 알론소) 먼 손 잡기·놓기 = 두 관절 IK: 윗팔(어깨→팔꿈치) + 쥔 팔 조각(팔꿈치→주먹)을 진짜 관절처럼 — 손이 막대처럼 미끄러지지 않음.
         //  시작(reach≈0)은 흔들던 팔뚝 방향 그대로, 끝(reach=1)은 칼에 붙은 rigid 자리와 같음(팔 길이 1.0이면 IK 팔꿈치 = rigid 팔꿈치)
         const pl = P[b.armL.part], fc = pl.fist || pl.pivot, kL = pl.scale, fv = [(fc[0] - pl.pivot[0]) * kL, (fc[1] - pl.pivot[1]) * kL];

diff --git a/assets/rig/alonso-neon/source/tools/tunev.html b/assets/rig/alonso-neon/source/tools/tunev.html
@@ -20,6 +20,6 @@ ts.forEach((t,k)=>{const tf=Math.round(t*60);while(f<tf){an.update(1/60,{vx:0,fa
   function apply_(m,x,y){return [m[0]*x+m[2]*y+m[4],m[1]*x+m[3]*y+m[5]]}
   out.push({t,pelvis:r(pt('hip',0,0)),neck:r(pt('head',0,0)),hairTop:r(ppt('head',150,20)),chin:r(ppt('head',150,240)),
     SN:r(pt('armF',0,0)),EN:r(pt('foreF',0,0)),SF:r(pt('armU',0,0)),EF:r(pt('armL',0,0)),grip:r(an.swordG||[0,0]),sa:+(an.swordA||0).toFixed(3),
-    hipN:H('near'),kneeN:r(ap(...L.near.knee)),ankleN:r(ap(...L.near.ankle)),hipF:H('far'),kneeF:r(ap(...L.far.knee)),ankleF:r(ap(...L.far.ankle)),hipDrop:+(an.hipDrop||0).toFixed(1),legRun:+(an.legRunV||0).toFixed(2),torsoA:+Math.atan2(b.torso.m[1],b.torso.m[0]).toFixed(3)})});
+    hipN:H('near'),kneeN:r(ap(...L.near.knee)),ankleN:r(ap(...L.near.ankle)),hipF:H('far'),kneeF:r(ap(...L.far.knee)),ankleF:r(ap(...L.far.ankle)),hipDrop:+(an.hipDrop||0).toFixed(1),legRun:+(an.legRunV||0).toFixed(2),stN:+(an.stN||0).toFixed(3),stF:+(an.stF||0).toFixed(3),wrN:+(an.wrN||0).toFixed(3),wrF:+(an.wrF||0).toFixed(3),torsoA:+Math.atan2(b.torso.m[1],b.torso.m[0]).toFixed(3)})});
 window.R=out;document.title='done'})().catch(e=>{document.title='ERR '+e.stack});
 </script>

diff --git a/assets/rig/alonso-neon/source/kitoh/oh_build.py b/assets/rig/alonso-neon/source/kitoh/oh_build.py
@@ -57,4 +57,13 @@ STK = OHC.get('strikeScale', 0.9)
 for name, file, mk in [('gN_ST', 'gNst.png', 'gNst'), ('gF_ST', 'gFst.png', 'gFst')]:
     put(name, file); m = MET[mk]
     def_parts[name] = {'src': f'parts/{name}.png', 'pivot': list(m['elbow']), 'elbow': list(m['elbow']), 'grip': list(m['grip']), 'wrist': list(m['grip']), 'shaftDir': list(m['shaftDir']), 'scale': STK}
-put('uN_ST', 'uNst.png'); def_parts['uN_ST'] = {'src': 'parts/uN_ST.png', 'pivot': list(MET['uNst']['shoulder']), 'elbow': list(MET['uNst']['elbow']), 'scale': STK}
+put('uN_ST', 'uNst.png')
+def _clean_uNst(path):   # (21:59 IK 로 윗팔이 더 숙으면 어깨갑 밖으로 나오는 위 끝 정리) 지운 파란 패드의 회색 찌꺼기·구멍·가는 외곽선 꼬리
+    from scipy import ndimage as _nd
+    a = np.array(Image.open(path).convert('RGBA')).astype(np.int32); H_, W_ = a.shape[:2]; yy_, xx_ = np.mgrid[0:H_, 0:W_]; al_ = a[..., 3]
+    light = (al_ > 0) & (a[..., :3].min(2) > 150) & ((a[..., :3].max(2) - a[..., :3].min(2)) < 45) & (xx_ < 130); al_ = np.where(light, 0, al_)
+    m_ = al_ > 40; m2 = np.where((xx_ < 85) | ((xx_ < 135) & (yy_ < 45)) | ((xx_ < 135) & (yy_ < 70)), _nd.binary_opening(m_, structure=np.ones((7, 7))), m_)
+    lab_, n_ = _nd.label(m2); keep = lab_ == (1 + int(np.argmax(_nd.sum(m2, lab_, range(1, n_ + 1))))); hole = _nd.binary_fill_holes(keep) & ~keep
+    a[..., 3] = np.where(keep, al_, 0); _sk = (a[..., 3] > 200) & (a[..., 0] > 200) & (a[..., 1] > 140) & (a[..., 1] < 210) & (a[..., 2] < 130); a[hole] = list(np.median(a[_sk][:, :3], 0).astype(int)) + [255]
+    Image.fromarray(a.astype(np.uint8), 'RGBA').save(path)   # 구멍 = 패드 밑 윗팔 살 → 살색
+_clean_uNst(os.path.join(OUT, 'parts', 'uN_ST.png')); def_parts['uN_ST'] = {'src': 'parts/uN_ST.png', 'pivot': list(MET['uNst']['shoulder']), 'elbow': list(MET['uNst']['elbow']), 'scale': STK}

diff --git a/assets/rig/alonso-neon/STATUS.md b/assets/rig/alonso-neon/STATUS.md
@@ -107,3 +107,12 @@ DHL 내려찍기 확인 → 게임 연결(REGISTRY 11, gameRef 가운데, cutHol
 - 먼 어깨 shFx −38 · shFy −24(상체 좌표) → 어깨 덮개가 턱 밑에 숨고 팔이 턱 밑에서 나옴. 그리는 순서 drawST(먼 윗팔 = 몸통 앞·머리 뒤, 먼 팔뚝·주먹 = 칼 앞·가까운 팔 뒤)
 - 0.72 원화 팔로 돌아갈 때 먼 팔도 같이 바뀜(칼이 빨리 도는 순간). 게이트: m11 9.6° IoU 0.58 · m12 7.5° IoU 0.67 (대기 m13 8.7° · 0.50). 엔진 안 바꿈(다른 캐릭터 영향 0)
 - 편집 툴 v87 (1792328056-efe6) 게시: rig.def.js?v=48fab097 · parts/fST2.png·armFst.png · progress/alonso11_v52.jpg (동작 시트 런지 · 0.56 전·지금)
+
+## 22:13 v5.3 같은 길이 팔 (DHL 21:59 공격 0.43·0.63·0.70초 '고무줄처럼 늘어나지 말고 같은 길이의 팔이 내려치고 다시 올라가게')
+- 원인: 휘두름·버팀·돌아오기에서 가까운 윗팔이 늘임 상한 1.6 에 붙어 있었음(어깨→주먹 313 vs 팔 길이 윗팔 88 + 팔뚝 155 = 243 — 대기 원화 팔 61 + 184 = 245 와 같음). 손을 시트 자리(몸에서 멀리)에 두고 팔을 늘여 맞췄던 것. 돌아올 때는 손목 비틀기 키(fTw 0.8)로 팔꿈치가 어깨 쪽으로 접혀 팔이 짧아 보였음
+- 엔진 opt-in `action.armIK`(동작 트랙 0~1, 쪽별 armIKN·armIKF 덮어쓰기) · `ikSide` — 주먹은 칼 손잡이에 붙인 채 윗팔(그림 길이)·팔뚝(조각 손잡이→팔꿈치) 길이 고정 두 관절 IK, 쥔 팔 조각은 주먹 둘레로만 돔(손목 꺾임 an.wrN·wrF). 닿지 않으면 곧게 펴고 남는 만큼만 늘임(an.stN·stF). 다른 리그 7종 픽셀 차이 0
+- 키: armIK 0~0.1·0.3601~끝(머리 위 0.1001~0.36 은 키트 조각 그대로), armIKN(먼 팔) 0.3601~0.72만, ikSide N·F = +1(팔꿈치 아래). 손잡이 휘두름·버팀 키를 몸 쪽으로 약 80 당김(0.3601 [205,−179] · 0.38 [202,−94] · 0.43~0.62 [195,−64]), 들어 올림 0.1 [165,−225](원화 팔이 닿게), nTw·fTw 0(IK 가 팔뚝 방향을 정함)
+- 먼 팔: 조각 배율 0.95(fST2·armFst), 어깨 shFx −60 · shFy −34(턱 밑) — 버팀 때 거의 곧은 팔로 턱 밑 → 먼 주먹
+- uN_ST(휘두름 윗팔) 위 끝 정리: 지운 파란 패드의 회색 찌꺼기·구멍(→ 살색)·가는 외곽선 꼬리 — IK 로 윗팔이 더 숙으면 어깨갑 밖으로 보였음
+- 결과(1/60초 전체): 보이는 팔 늘임 가까운 1.00 · 먼 1.00, 손목 꺾임 버팀 ≤ 11°, 휘두르는 첫 장면 0.367 먼 손목 41° · 돌아오는 0.818 가까운 손목 43°(칼이 가장 빨리 도는 한두 프레임). 게이트 m11 11.3° IoU 0.58 · m12 6.9° IoU 0.69 · m13 10.5° IoU 0.50
+- rig version 3fa3e05e
